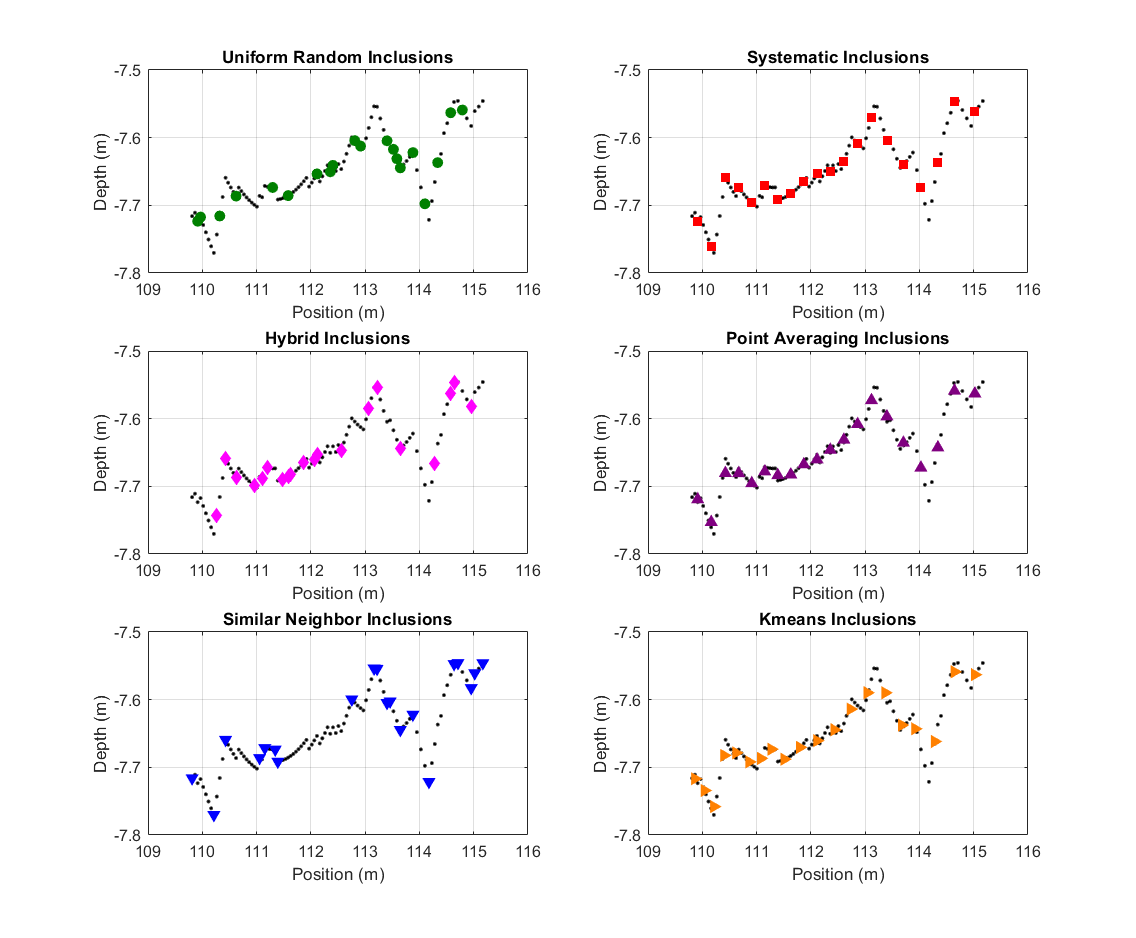
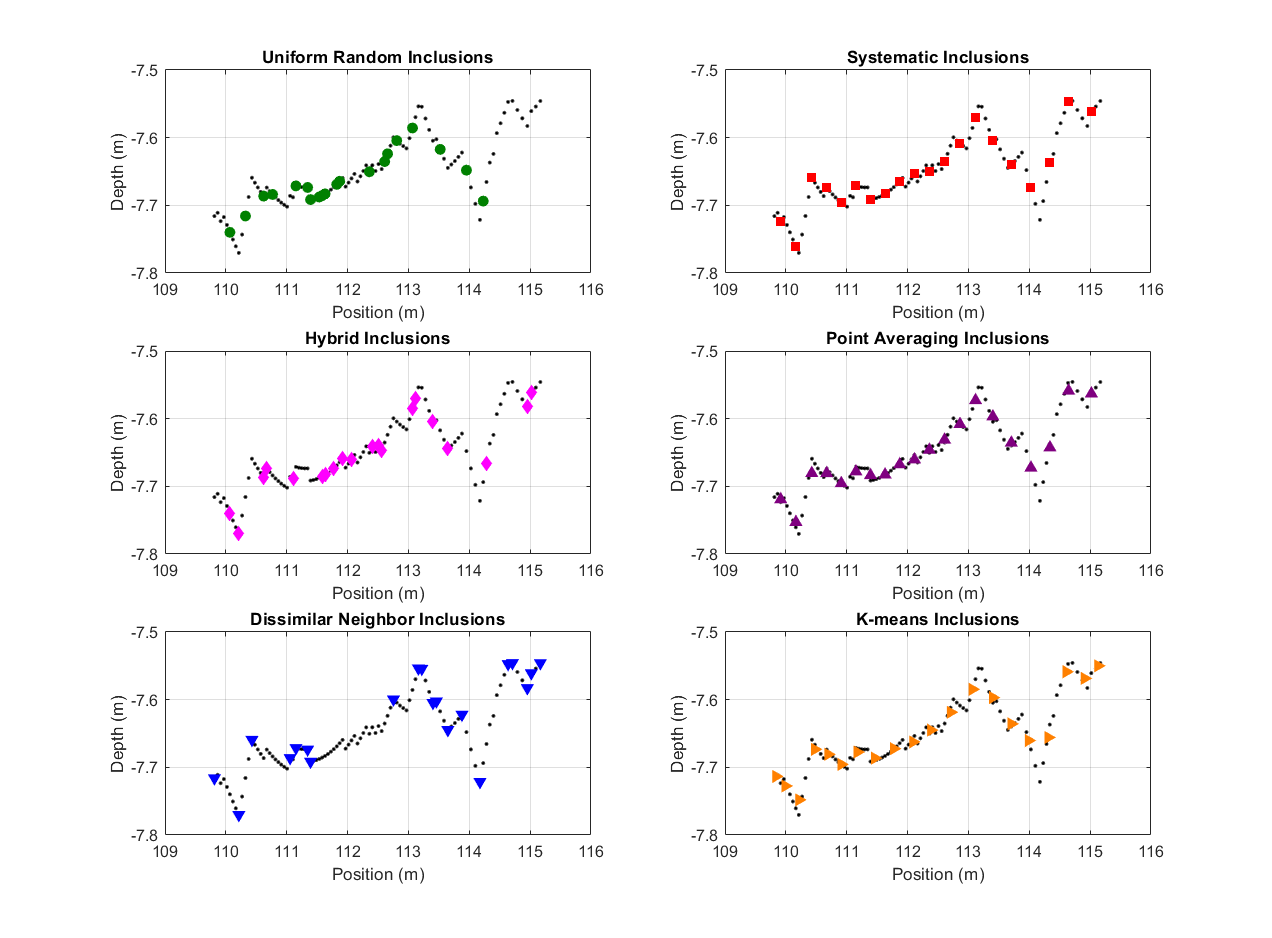
daily commit, new figures and uncertainty calculations

diff --git a/uncertainty/ping_uncertainty.m b/uncertainty/ping_uncertainty.m
@@ -16,11 +16,12 @@ data = rawdata(:,[1 2 3]);
 data.X = zeros(size(data.X));
 data.Y = data.Y - data.Y(107); % center around middle point
 
-data.Z = ones(height(data),1);
+%data.Z = ones(height(data),1)*100;
 
 % parameters
-range_var = .20 / 6; % +/- 10cm rating = 20cm. 20cm at 6 sigma = 0.033m
-nbeams = 256; swath_angle = 90*pi/180; % CHECK THESE VALUES
+range_var = .10 / 6; % 10cm rating at 6 sigma = 0.0167m
+        % or is it +/- 10cm rating = 20cm. 20cm at 6 sigma = 0.033m
+nbeams = 256; swath_angle = 120*pi/180; % CHECK THESE VALUES
 angle_var = swath_angle / nbeams;
 
 % calculate variances
@@ -30,12 +31,51 @@ angles = atan(abs(data.Y)./abs(data.Z));
 variances = (cos(angles).*range_var).^2 + (ranges.*sin(angles).*angle_var).^2;
 
 
+% constant uncertainties
+const_variances = ones(length(variances))*0.04;
+
+cupper = data.Z + 2*sqrt(const_variances);
+clower = data.Z - 2*sqrt(const_variances);
+
 
 % PLOTS
 figure()
+%subplot(1,2,1)
 plot(data.Y,data.Z, 'k.'), hold on
 
 upper = data.Z + 2*sqrt(variances);
 lower = data.Z - 2*sqrt(variances);
+
+%plot uncerts
+plot(data.Y,upper,'b-.')
+
+plot(data.Y,cupper,'r-')
+plot(data.Y,clower,'r-')
+
+plot(data.Y,lower,'b-.')
+
+xlim([-10 10])
+grid on
+title('95% Confidence [+/-2\sigma] Intervals on a Sonar Ping'),
+xlabel('Position (m)'), ylabel('Depth (m)')
+
+
+
+legend('raw data','Changing Uncertainty','Constant Uncertainty','location','northwest')
+
+%{
+% constant uncertainties
+const_variances = ones(length(variances))*0.04;
+%subplot(1,2,2)
+plot(data.Y,data.Z, 'k.'), hold on
+
+upper = data.Z + 2*sqrt(const_variances);
+lower = data.Z - 2*sqrt(const_variances);
 plot(data.Y,upper,'b-')
 plot(data.Y,lower,'b-')
+xlim([-10 10])
+grid on
+title('2*std-dev bounds with constant uncertainties over a ping'),
+xlabel('Position (m)'), ylabel('Depth (m)')
+legend('raw data','2std bounds')
+%}

diff --git a/graphics/eachDownsampleMethodSelections.m b/graphics/eachDownsampleMethodSelections.m
@@ -65,7 +65,7 @@ for i = 1:p:height(data)        % loop over all points
 end
 
 
-% info gain
+% dissimilar neighbor
 % go over every point
 for i = 1:height(data)
 
@@ -175,12 +175,12 @@ grid on
 subplot(3,2,5)
 plot(data.Y, data.Z, 'k.'), hold on
 plot(infogain_pts.Y, infogain_pts.Z,'bv','MarkerFaceColor','b')
-title('Information Gain Inclusions'), xlabel('Position (m)'), ylabel('Depth (m)')
+title('Dissimilar Neighbor Inclusions'), xlabel('Position (m)'), ylabel('Depth (m)')
 grid on
 
 % raw and kmeans
 subplot(3,2,6)
 plot(data.Y, data.Z, 'k.'), hold on
 plot(C(:,1),C(:,2),'>','Color',[1 0.5 0], 'MarkerFaceColor', [1 0.5 0])
-title('Kmeans Inclusions'), xlabel('Position (m)'), ylabel('Depth (m)')
+title('K-means Inclusions'), xlabel('Position (m)'), ylabel('Depth (m)')
 grid on
